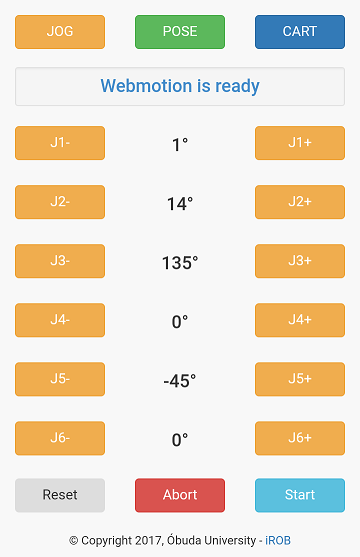
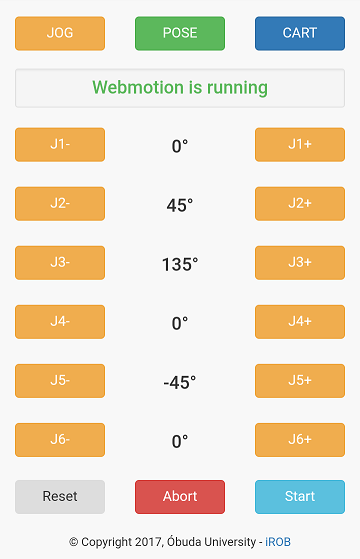
Displayed if the position not reachable or Z limit is reached

diff --git a/examples/webpanel.htm b/examples/webpanel.htm
@@ -355,9 +355,15 @@
           $('.wr').html(Math.round(data.pose[5]) + '&#176;')
 
           if (data.error[0] == 0) {
-            if (data.status[0] == 0) {
+            if (data.status[0] == 1) {
               $('#status').html("Webmotion is running")
               $('#status').css("color", "#5cb85c")
+              if (data.status[1] == 1) {
+                $('#status').html("Position not reachable")
+              }
+              if (data.status[2] == 1) {
+                $('#status').html("Z limit is reached")
+              }
             } else {
               $('#status').html("Standby")
               $('#status').css("color", "#428bca")
